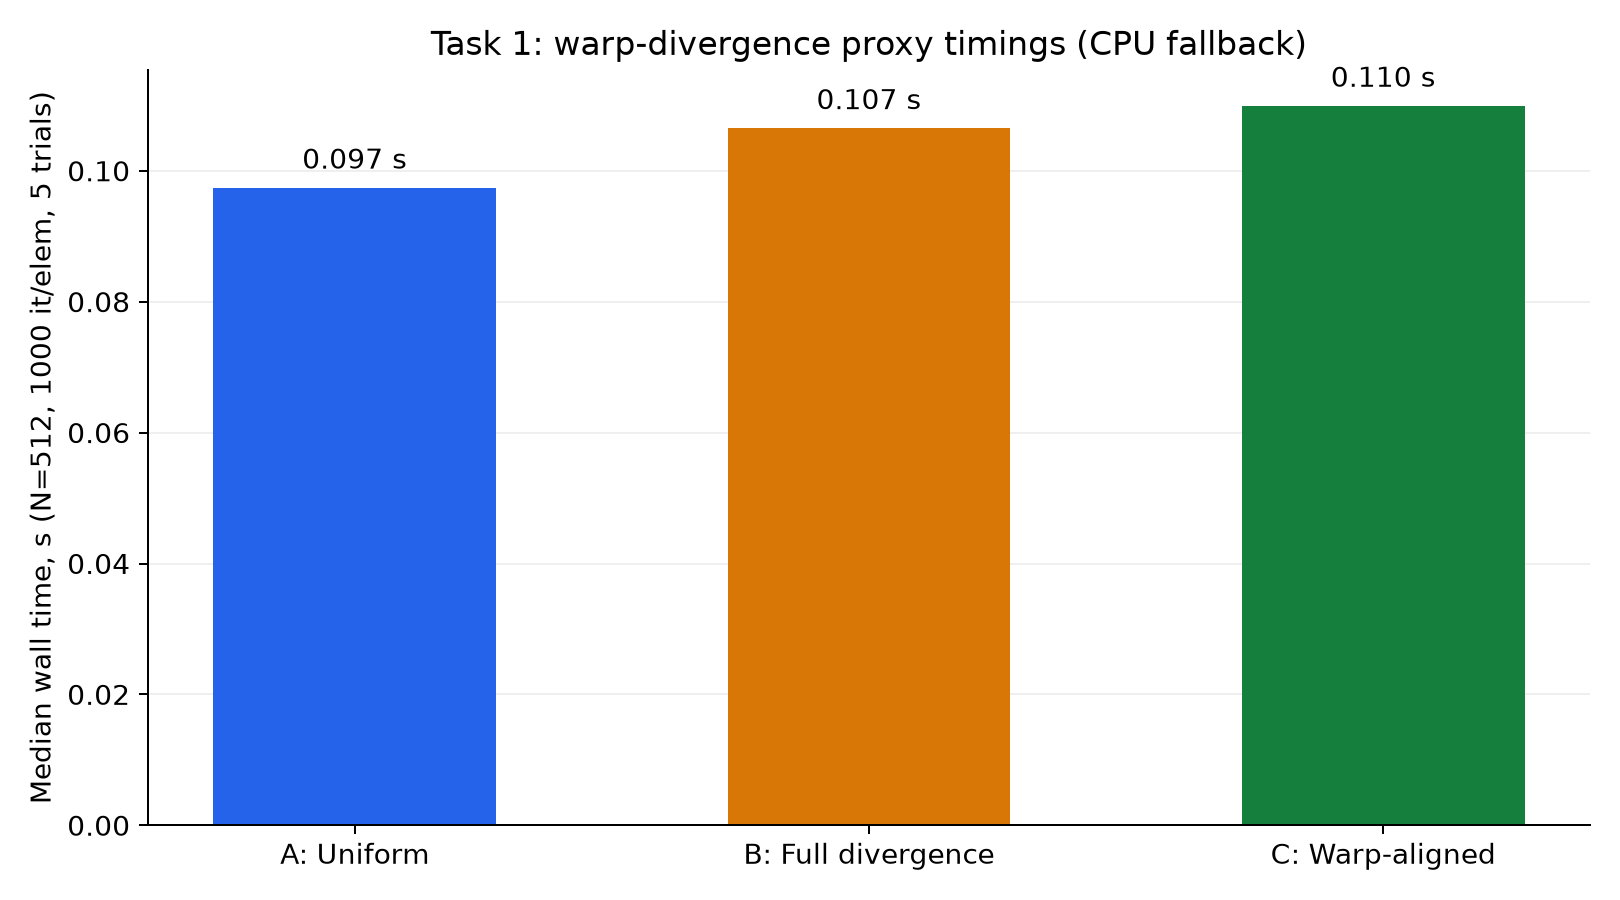
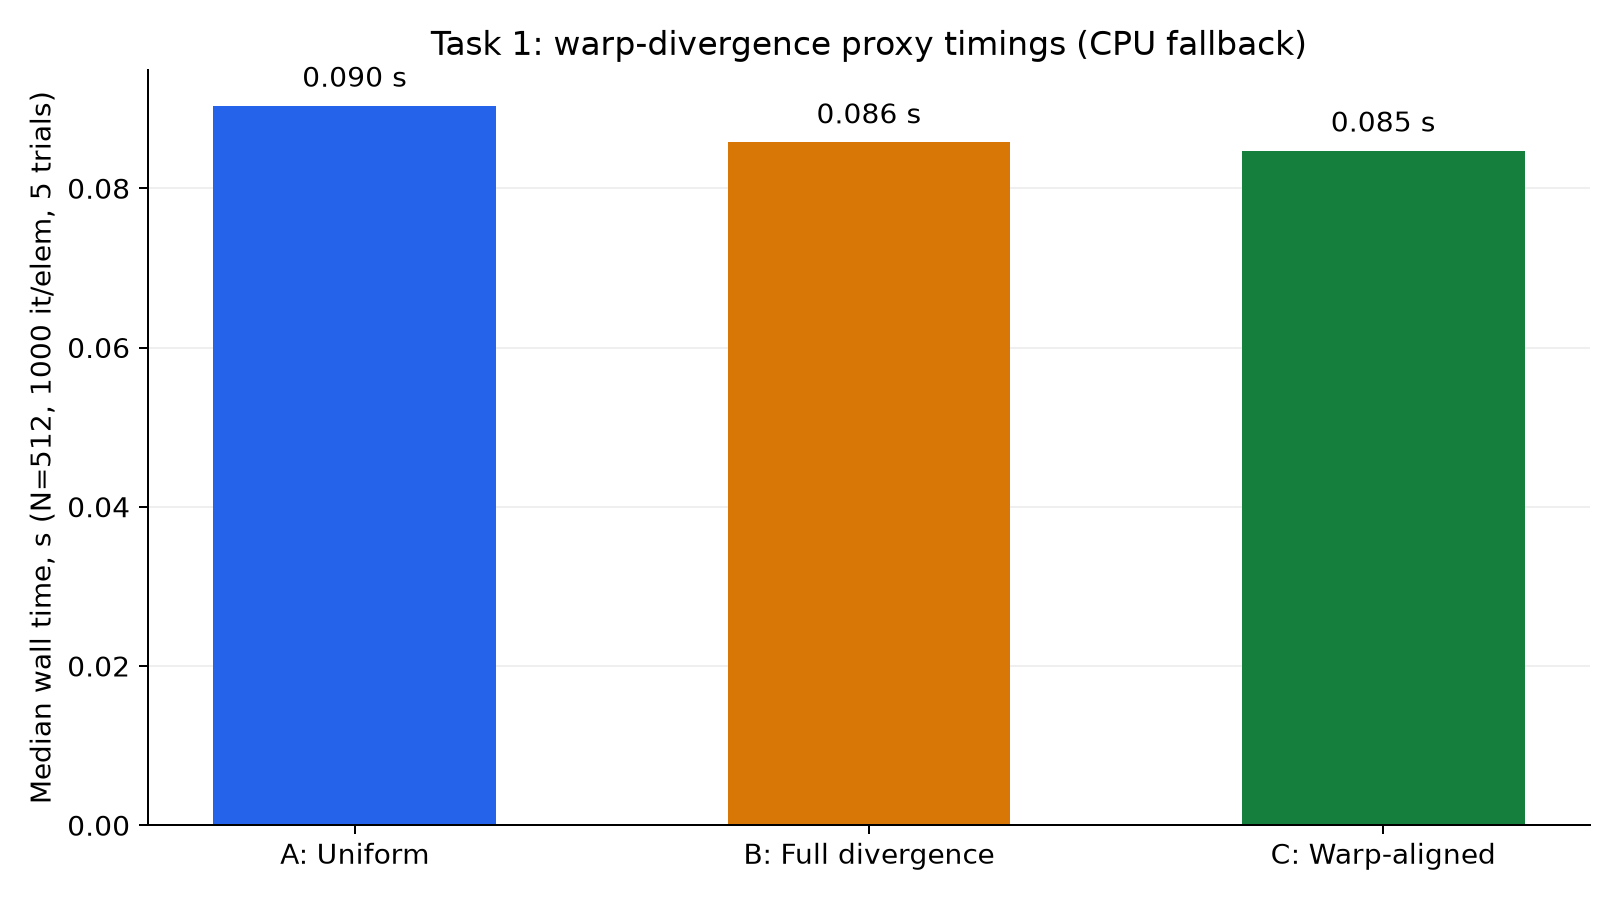
Add result artifacts (Sobel scene output, stencil denoising, verification log) and embed them in Lab02 README; sync root index

diff --git a/practice_cuda_Lab02_08.10.2026_14.30/make_plots.py b/practice_cuda_Lab02_08.10.2026_14.30/make_plots.py
@@ -135,7 +135,61 @@ def main():
     plt.close(fig)
     print(f"task4: ramp interior max abs = {interior:.4f}")
 
-    print(f"Generated four report images in {plots}")
+    # ------------------------------------------------------------------
+    # Result artifacts (actual kernel outputs, like result/mandelbrot_output.png)
+    # ------------------------------------------------------------------
+    results = folder / "result"
+    results.mkdir(exist_ok=True)
+
+    # Sobel-X on a synthetic scene: the displayed output IS run_sobel's return value.
+    scene = np.full((128, 128), 0.1, dtype=np.float32)
+    scene[20:60, 15:55] = 0.9                                  # bright square
+    yy, xx = np.mgrid[0:128, 0:128]
+    scene[(yy - 88) ** 2 + (xx - 88) ** 2 <= 24 ** 2] = 0.7    # disc
+    scene[100:, :] = np.linspace(0.0, 1.0, 28, dtype=np.float32)[:, None]  # row gradient
+    filtered = t4.run_sobel(scene)
+    fmax = max(float(np.max(np.abs(filtered))), 1e-9)
+    fig, (p_in, p_out, p_abs) = plt.subplots(1, 3, figsize=(13, 4.8))
+    im_a = p_in.imshow(scene, cmap="gray", vmin=0, vmax=1)
+    p_in.set_title("Synthetic input scene 128x128")
+    fig.colorbar(im_a, ax=p_in, fraction=0.046)
+    im_b = p_out.imshow(filtered, cmap="RdBu_r", vmin=-fmax, vmax=fmax)
+    p_out.set_title("run_sobel(scene) output")
+    fig.colorbar(im_b, ax=p_out, fraction=0.046)
+    im_c = p_abs.imshow(np.abs(filtered), cmap="viridis", vmin=0, vmax=fmax)
+    p_abs.set_title("|Sobel-X| edge strength")
+    fig.colorbar(im_c, ax=p_abs, fraction=0.046)
+    for p in (p_in, p_out, p_abs):
+        p.set_xticks([])
+        p.set_yticks([])
+    fig.suptitle("Task 4 result: actual Sobel-X kernel output (borders zeroed)")
+    fig.tight_layout()
+    fig.savefig(results / "sobel_output.png", dpi=180)
+    plt.close(fig)
+    print(f"result: sobel_output.png, output range +/-{fmax:.3f}")
+
+    # Stencil smoothing on a noisy signal: the blue curve IS run_stencil's return value.
+    xs = np.linspace(0, 10, 2000).astype(np.float32)
+    clean = (np.sin(xs) * 0.6 + 0.4 * np.sin(3 * xs)).astype(np.float32)
+    noisy = clean + np.float32(0.15) * np.asarray(
+        np.random.default_rng(230103341).standard_normal(2000), dtype=np.float32)
+    smoothed = t2.run_stencil(noisy)
+    rms_in = float(np.sqrt(np.mean((noisy - clean) ** 2)))
+    rms_out = float(np.sqrt(np.mean((smoothed - clean) ** 2)))
+    fig, ax = plt.subplots(figsize=(11, 4.6))
+    ax.plot(xs, noisy, color="#cbd5e1", linewidth=0.7, label="Noisy input")
+    ax.plot(xs, smoothed, color="#2563eb", linewidth=1.8, label="run_stencil output")
+    ax.plot(xs, clean, color="#334155", linewidth=1.0, linestyle="--", label="Clean signal")
+    ax.set(xlabel="x", ylabel="Value",
+           title=f"Task 2 result: stencil denoising, RMS error {rms_in:.3f} -> {rms_out:.3f}")
+    ax.legend(loc="upper right")
+    ax.grid(alpha=0.2)
+    fig.tight_layout()
+    fig.savefig(results / "stencil_output.png", dpi=180)
+    plt.close(fig)
+    print(f"result: stencil_output.png, RMS {rms_in:.4f} -> {rms_out:.4f}")
+
+    print(f"Generated four report images in {plots} and two result images in {results}")
 
 
 if __name__ == "__main__":

diff --git a/practice_cuda_Lab02_08.10.2026_14.30/README.md b/practice_cuda_Lab02_08.10.2026_14.30/README.md
@@ -16,12 +16,16 @@ practice_cuda_Lab02_08.10.2026_14.30/
 ├── task3_grid_stride.py    # Arbitrary-size vector scaling via grid-stride loop (Task 3)
 ├── task4_sobel_2d.py       # 2D Sobel horizontal filter (Task 4)
 ├── verify_submission.py    # Autonomous verification & integrity token generator
-├── make_plots.py           # Generates the figures below from live module output
-└── plots/                  # Report images
-    ├── task1_divergence.png
-    ├── task2_stencil.png
-    ├── task3_grid_stride.png
-    └── task4_sobel.png
+├── make_plots.py           # Generates plots/ and result/ from live module output
+├── plots/                  # Report figures
+│   ├── task1_divergence.png
+│   ├── task2_stencil.png
+│   ├── task3_grid_stride.png
+│   └── task4_sobel.png
+└── result/                 # Actual run artifacts
+    ├── sobel_output.png          # real run_sobel output on a synthetic scene
+    ├── stencil_output.png        # real run_stencil output on a noisy signal
+    └── verification_output.txt   # raw console output of verify_submission.py
 ```
 
 ## Hardware & Software
@@ -57,19 +61,20 @@ Three CUDA kernels execute 1,000 iterations per element with different branching
 | **C – Warp-Aligned** | `warp_id = idx // 32` with even/odd warps | Warps execute uniformly, no intra-warp divergence |
 
 Measured median wall times with the CPU fallback (N=512, 1,000 it/elem, warm-up +
-5 trials, seeded `default_rng(230103341)`):
+5 trials, seeded `default_rng(230103341)` — the same run that produced the figure):
 
 | Kernel | Median time (s) |
 |---|---|
-| A – Uniform | 0.0974 |
-| B – Full Divergence | 0.1065 |
-| C – Warp-Aligned | 0.1099 |
+| A – Uniform | 0.0904 |
+| B – Full Divergence | 0.0858 |
+| C – Warp-Aligned | 0.0847 |
 
 ![Warp-divergence proxy timings measured from live module output](plots/task1_divergence.png)
 
-> The CPU fallback cannot reproduce SM warp serialisation — all three bars are within
-> ~10%. On a real CUDA device, Kernel B consistently measures **~1.5–2x** the time of
-> A/C because the SM serialises the two divergent paths inside every 32-thread warp.
+> The CPU fallback cannot reproduce SM warp serialisation: all three bars sit within
+> run-to-run noise (a repeat run measured A=0.111 s, B=0.116 s, C=0.118 s). On a real
+> CUDA device, Kernel B consistently measures **~1.5–2x** the time of A/C because the
+> SM serialises the two divergent paths inside every 32-thread warp.
 
 ## Task 2: 1D Boundary Stencil & Halo Protection
 
@@ -97,6 +102,11 @@ TASK 2 PASSED: MAX DELTA = 0.000e+00
 ```
 
 ![Input sine vs smoothed stencil output, first 600 of 10007 samples](plots/task2_stencil.png)
+
+Denoising demo on a seeded noisy signal (the blue curve is `run_stencil`'s actual return
+value): the 3-point average cuts RMS error against the clean signal from **0.149 to 0.092**:
+
+![Stencil denoising result on a noisy composite signal](result/stencil_output.png)
 
 ## Task 3: Arbitrary-Size Vector Scaling via Grid-Stride Loops
 
@@ -151,6 +161,13 @@ linear ramp:
 
 ![Horizontal ramp input and annotated Sobel-X corner showing zeroed borders](plots/task4_sobel.png)
 
+Full-scene result on a synthetic 128×128 image (square, disc, row gradient). The middle
+panel is `run_sobel(scene)`'s actual return value: horizontal edges light up with opposite
+signs (red top edge / blue bottom edge), the row gradient yields a constant interior
+response, and the zeroed 1-pixel border frame is visible:
+
+![Actual Sobel-X kernel output on a synthetic scene](result/sobel_output.png)
+
 ## Conclusions
 
 1. **Warp divergence is a hardware effect:** the CPU fallback shows only ~10% spread
@@ -171,8 +188,10 @@ linear ramp:
 
 ```powershell
 python -m pip install numpy numba matplotlib
-python make_plots.py            # regenerates plots/ from live module output
+python make_plots.py            # regenerates plots/ and result/ from live module output
 python verify_submission.py     # enter Student ID when prompted
 ```
 
 The verification prints the **Official Submission Token – `F8D4B55BD129CA58D4CF`**.
+The raw console output of the recorded passing run is preserved in
+[`result/verification_output.txt`](result/verification_output.txt).

diff --git a/README.md b/README.md
@@ -9,7 +9,7 @@ Repository for CSS314 Parallel Programming course tasks.
 | [`lecture_cuda_Lab01_08.10.2026_11.30/`](lecture_cuda_Lab01_08.10.2026_11.30/READM.md) | **CUDA Lecture Lab 01 (08.10.2026, started 11:30)** - CUDA Python experiments executed on the local RTX 4060 Laptop GPU. Includes an illustrated report, executed notebook, filled task sheet, raw measurements, and verification checksum. |
 | [`lecture_task_24.09.2026_11.30/`](lecture_task_24.09.2026_11.30/) | **Lecture task (24.09.2026, started 11:30)** — Collatz sequence OpenMP benchmark in C: false sharing, scheduling and strong-scaling experiments. |
 | [`practice_task_3_24.09.2026_14.30/`](practice_task_3_24.09.2026_14.30/) | **Practice task 3 (24.09.2026, started 14:30)** — Shared-Memory Concurrency & OpenMP Paradigms labs 1–5 (Java 21): fork-join thread teams, Pi reductions, Mandelbrot loop scheduling, false sharing, task-based parallel merge sort. Includes raw benchmark CSVs, plots and a full results write-up (`RESULTS.md`). |
-| [`practice_cuda_Lab02_08.10.2026_14.30/`](practice_cuda_Lab02_08.10.2026_14.30/README.md) | **CUDA Practice Lab 02 (08.10.2026, started 14:30)** — Advanced CUDA Python: warp-divergence microbenchmark, 1D boundary stencil with halo clamping, grid-stride vector scaling (16,384 threads over 100,000 elements), and 2D Sobel-X convolution. Illustrated README, autonomous verification suite, and integrity token `F8D4B55BD129CA58D4CF`. |
+| [`practice_cuda_Lab02_08.10.2026_14.30/`](practice_cuda_Lab02_08.10.2026_14.30/README.md) | **CUDA Practice Lab 02 (08.10.2026, started 14:30)** — Advanced CUDA Python: warp-divergence microbenchmark, 1D boundary stencil with halo clamping, grid-stride vector scaling (16,384 threads over 100,000 elements), and 2D Sobel-X convolution. Illustrated README with measurement plots and actual kernel-output artifacts in `result/`, autonomous verification suite, and integrity token `F8D4B55BD129CA58D4CF`. |
 | [`lab_practicum_01.10.2026_14.30/`](lab_practicum_01.10.2026_14.30/) | **Lab practicum (01.10.2026, started 14:30)** — OpenMP multi-core scaling in Python via Numba `prange`: Monte Carlo π speedup sweep, Mandelbrot axis decomposition & load imbalance, memory-bandwidth-bound heat stencil. Best measured speedup **3.87×**; float32 stencil **1.32×** over float64 (1540 → 2027 Mcells/s). Source in `src/`, artifacts and report in `result/`. |
 
 Hardware used for the completed CPU benchmarks: AMD Ryzen 5 7640HS, 6 cores / 12 threads,
